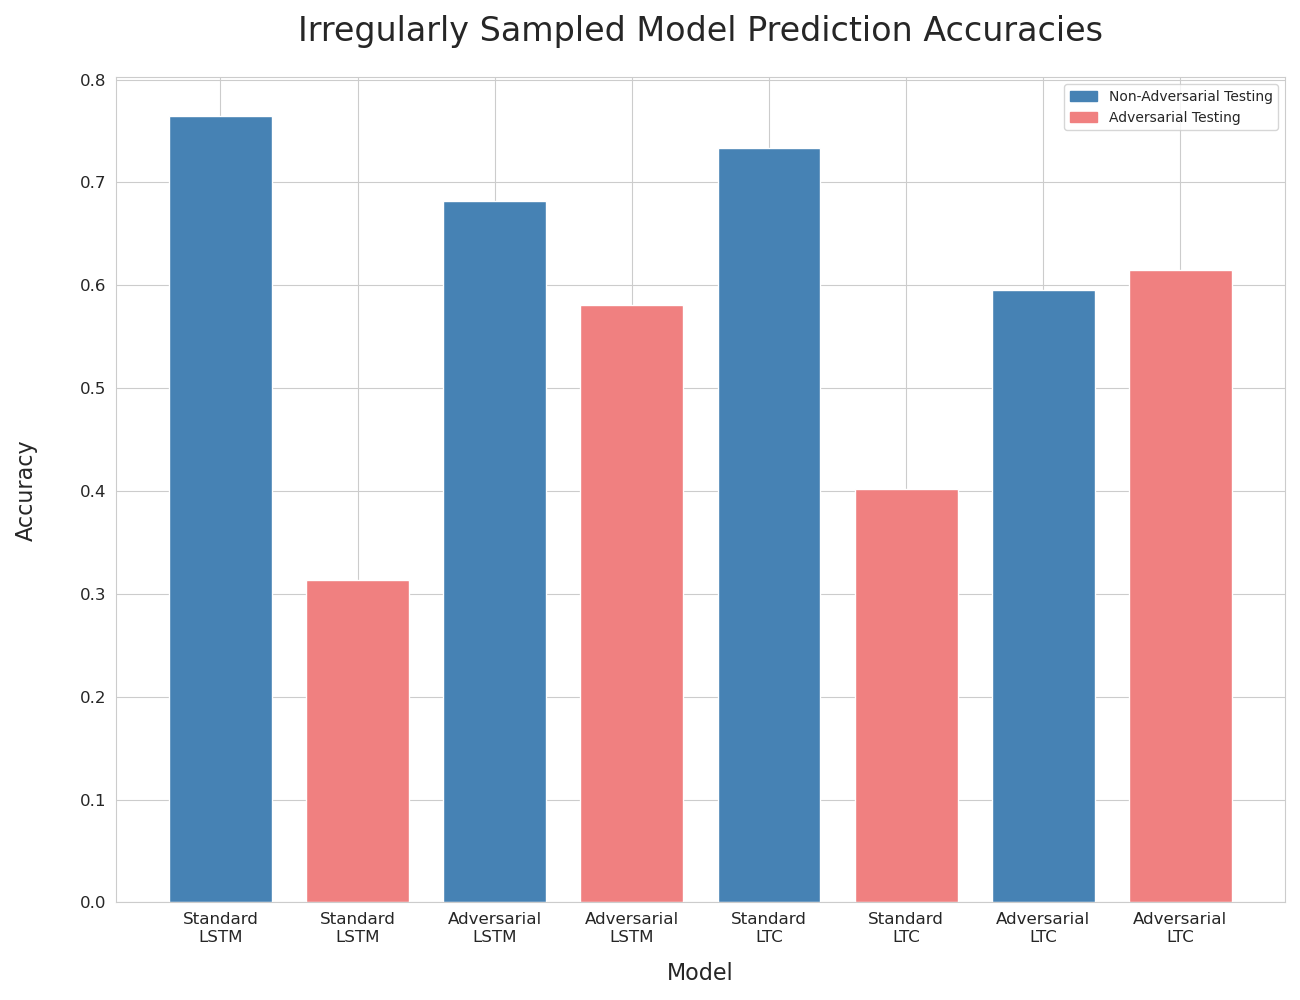
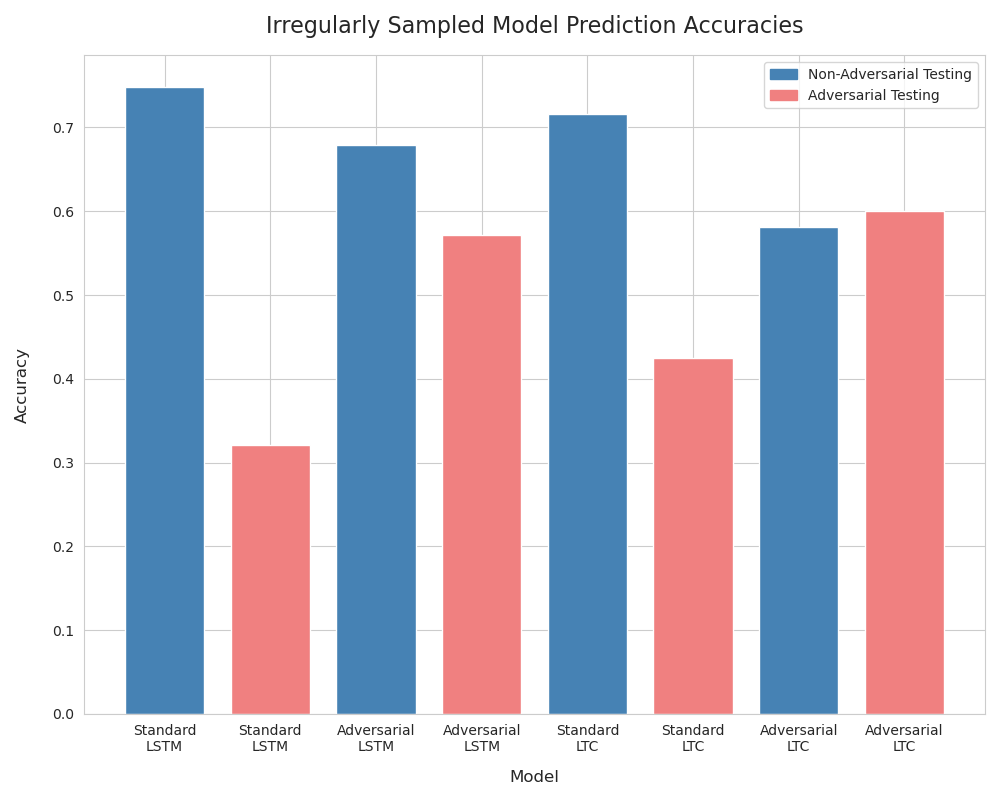
fixed accuracy plot formatting to make legend bigger

diff --git a/accuracy_plot.py b/accuracy_plot.py
@@ -143,21 +143,21 @@ irregular_models_sorted, irregular_model_accuracies_sorted = sort_models(irregul
 sns.set_style("whitegrid")
 def plot_all_models_accuracy_bar(models, model_accuracies, regular):
   colors = ['steelblue', 'lightcoral', 'steelblue', 'lightcoral', 'steelblue', 'lightcoral', 'steelblue', 'lightcoral']
-  plt.figure(figsize=(13, 10))
+  plt.figure(figsize=(10, 8))
   plt.bar(models, model_accuracies, 0.75, color=colors)
   # Create a custom legend
   legend_labels = ['Non-Adversarial Testing', 'Adversarial Testing']
   legend_colors = ['steelblue', 'lightcoral']
   legend_handles = [mpatches.Patch(color=color) for color in legend_colors]
   plt.legend(legend_handles, legend_labels, facecolor='white', loc='upper right')
-  plt.xlabel('Model', fontsize = 16, labelpad = 0)
-  plt.ylabel('Accuracy', fontsize = 16, labelpad = 30)
+  plt.xlabel('Model', fontsize = 12, labelpad = 0)
+  plt.ylabel('Accuracy', fontsize = 12, labelpad = 16)
   if regular:
-    plt.title("Regularly Sampled Model Prediction Accuracies", fontsize = 24, pad = 26.0)
+    plt.title("Regularly Sampled Model Prediction Accuracies", fontsize = 16, pad = 16.0)
   else:
-    plt.title("Irregularly Sampled Model Prediction Accuracies", fontsize = 24, pad = 26.0)
-  plt.yticks(fontsize=12)
-  plt.xticks(fontsize=12)
+    plt.title("Irregularly Sampled Model Prediction Accuracies", fontsize = 16, pad = 16.0)
+  plt.yticks(fontsize=10)
+  plt.xticks(fontsize=10)
   plt.tight_layout()
   if regular:
     plt.savefig(os.path.join("logs", "regular_model_accuracies.pdf"))

diff --git a/data.py b/data.py
@@ -156,6 +156,11 @@ class PersonData:
       else:
         # irregularly drop at random (keep 50%)
         drop_mask = np.random.uniform(size=t.shape) > 0.5
+        # exponential_mask = np.random.exponential(scale=3.0, size=t.shape[0])
+        # drop_mask = exponential_mask > 1.0
+
+      # int(np.random.exponential(scale=3, size=t.shape[0]))
+      # False, True, True, True, False
 
       t_ = [t[0]]
       for i in range(1, t.shape[0]):
